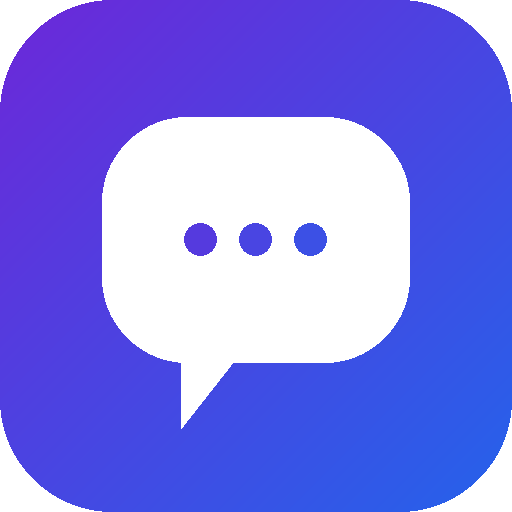
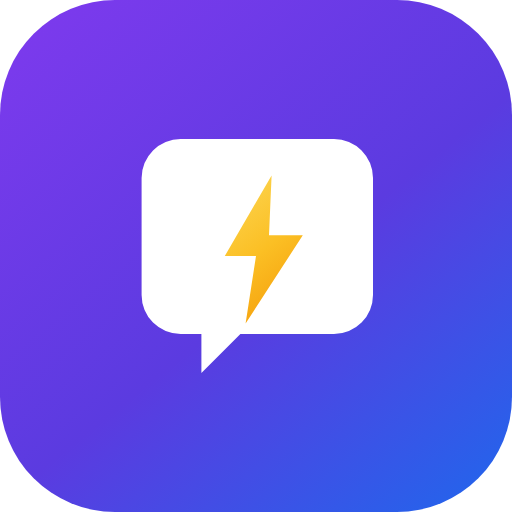
Add files via upload

Changed region(s): [[0.1875, 0.2188, 0.8125, 0.8438], [0.8125, 0.0, 1.0, 0.2812]]

diff --git a/index.html b/index.html
@@ -11,12 +11,14 @@
 <meta name="apple-mobile-web-app-capable" content="yes" />
 <meta name="apple-mobile-web-app-status-bar-style" content="black-translucent" />
 <meta name="apple-mobile-web-app-title" content="Motiva Vendas" />
+<link href="https://fonts.googleapis.com/css2?family=Poppins:wght@600;700;800&display=swap" rel="stylesheet" />
 <style>
   :root{
     --c1:#6d28d9; --c2:#2563eb; --accent:#f59e0b;
     --ink:#111827; --muted:#6b7280; --card:#fff;
     --radius:22px;
     --font:'Inter',-apple-system,BlinkMacSystemFont,'Segoe UI',Roboto,Helvetica,Arial,sans-serif;
+    --brandfont:'Poppins','Inter',-apple-system,BlinkMacSystemFont,sans-serif;
   }
   *{box-sizing:border-box;-webkit-tap-highlight-color:transparent;}
   html,body{margin:0;padding:0;}
@@ -31,7 +33,7 @@
   .auth{width:100%;max-width:420px;margin:auto;color:#fff;text-align:center;padding:24px 6px;}
   .auth .biglogo{width:80px;height:80px;border-radius:22px;background:rgba(255,255,255,.16);
     display:flex;align-items:center;justify-content:center;font-size:40px;margin:0 auto 18px;overflow:hidden;}
-  .auth h1{font-size:24px;margin:0 0 6px;}
+  .auth h1{font-size:24px;margin:0 0 6px;font-family:var(--brandfont);font-weight:800;letter-spacing:-.01em;}
   .auth p{opacity:.9;margin:0 0 6px;font-size:14px;line-height:1.5;}
   .authcard{background:#fff;border-radius:20px;padding:24px 20px;box-shadow:0 24px 60px rgba(0,0,0,.24);
     color:var(--ink);text-align:center;margin-top:22px;}
@@ -48,7 +50,7 @@
   .logo{width:44px;height:44px;border-radius:12px;object-fit:cover;background:rgba(255,255,255,.18);
         display:flex;align-items:center;justify-content:center;font-size:22px;flex:0 0 auto;overflow:hidden;}
   .brand{display:flex;flex-direction:column;line-height:1.1;min-width:0;}
-  .brand b{font-size:17px;font-weight:700;white-space:nowrap;overflow:hidden;text-overflow:ellipsis;}
+  .brand b{font-size:17px;font-weight:700;white-space:nowrap;overflow:hidden;text-overflow:ellipsis;font-family:var(--brandfont);letter-spacing:-.01em;}
   .brand span{font-size:12px;opacity:.85;white-space:nowrap;overflow:hidden;text-overflow:ellipsis;}
   .gear{margin-left:auto;background:rgba(255,255,255,.16);border:none;color:#fff;width:40px;height:40px;
         border-radius:12px;font-size:18px;cursor:pointer;display:flex;align-items:center;justify-content:center;transition:background .15s;}
@@ -126,7 +128,7 @@
 
 <!-- ===================== CARREGAMENTO ===================== -->
 <div class="auth" id="loadingScreen">
-  <div class="biglogo">💬</div>
+  <div class="biglogo"><svg viewBox="0 0 240 240" width="48" height="48"><path d="M92 30 H180 a30 30 0 0 1 30 30 V150 a30 30 0 0 1 -30 30 H108 l-30 30 v-30 h-16 a30 30 0 0 1 -30 -30 V60 a30 30 0 0 1 30 -30 Z" fill="#ffffff"/><path d="M132 58 L96 120 H120 L112 172 L156 104 H130 Z" fill="#f59e0b"/></svg></div>
   <h1>Motiva Vendas</h1>
   <p id="loadMsg">Preparando sua dose diária de motivação…</p>
   <div class="spinner" id="spin"></div>
@@ -141,7 +143,7 @@
 <!-- ===================== APP ===================== -->
 <div class="wrap hidden" id="app">
   <header>
-    <div class="logo" id="logoBox">💬</div>
+    <div class="logo" id="logoBox"><svg viewBox="0 0 240 240" width="30" height="30"><path d="M92 30 H180 a30 30 0 0 1 30 30 V150 a30 30 0 0 1 -30 30 H108 l-30 30 v-30 h-16 a30 30 0 0 1 -30 -30 V60 a30 30 0 0 1 30 -30 Z" fill="#ffffff"/><path d="M132 58 L96 120 H120 L112 172 L156 104 H130 Z" fill="#f59e0b"/></svg></div>
     <div class="brand">
       <b id="brandName">Motiva Vendas</b>
       <span id="brandTag">Sua dose diária de motivação</span>
@@ -299,7 +301,7 @@ async function loadBranding(){
   $("accCompany").textContent=(b.company_name||"Motiva Vendas") + (b.is_public?" (livre)":"");
   const lb=$("logoBox");
   if(b.logo_url){ lb.innerHTML='<img src="'+b.logo_url+'" style="width:100%;height:100%;object-fit:cover"/>'; }
-  else { lb.textContent="💬"; }
+  else { lb.innerHTML='<svg viewBox="0 0 240 240" width="30" height="30"><path d="M92 30 H180 a30 30 0 0 1 30 30 V150 a30 30 0 0 1 -30 30 H108 l-30 30 v-30 h-16 a30 30 0 0 1 -30 -30 V60 a30 30 0 0 1 30 -30 Z" fill="#ffffff"/><path d="M132 58 L96 120 H120 L112 172 L156 104 H130 Z" fill="#f59e0b"/></svg>'; }
 }
 
 /* ===== Render ===== */
